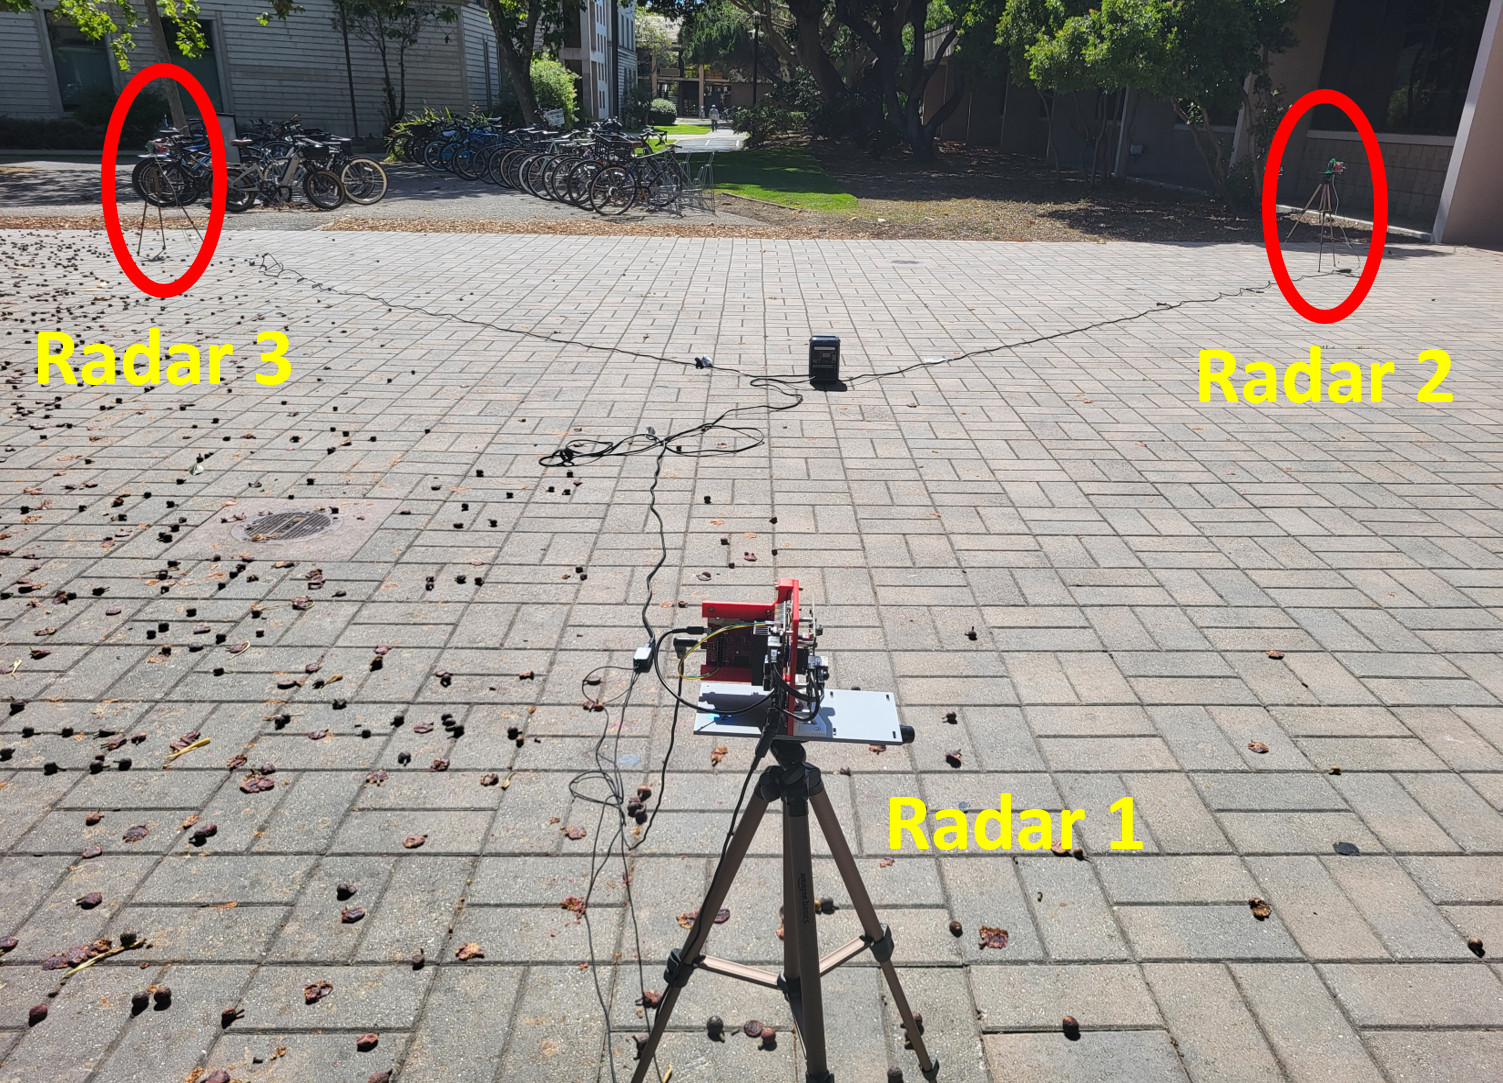
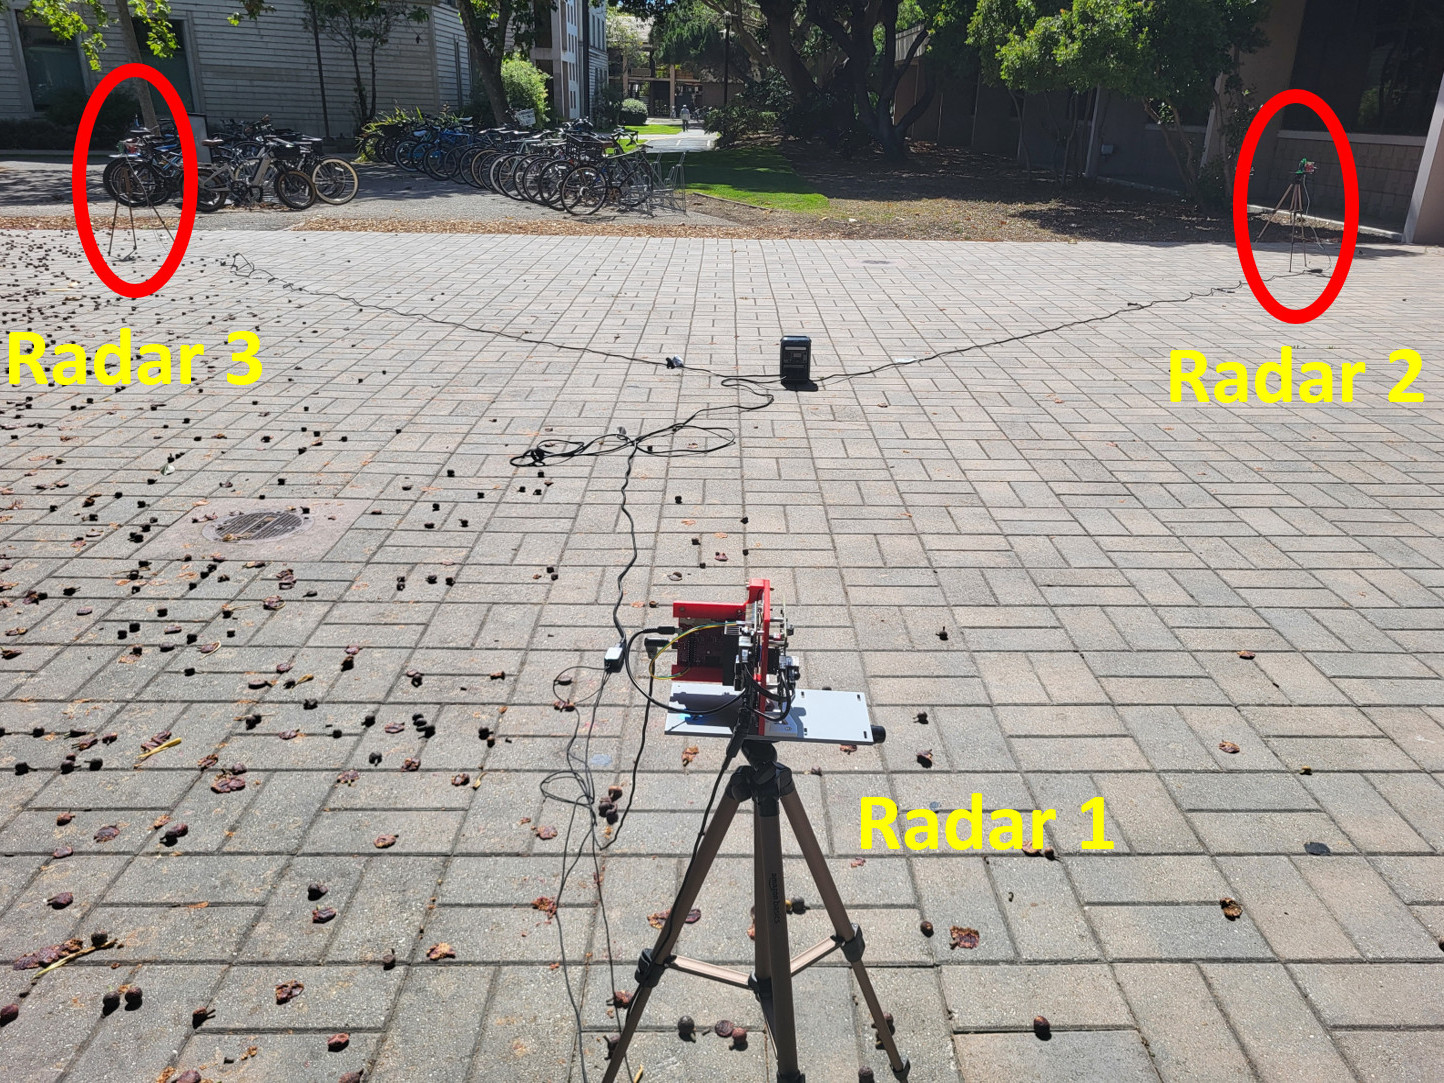
Updated README with more details

diff --git a/README.md b/README.md
@@ -8,9 +8,9 @@ live bird's-eye dashboard, and a PostgreSQL store — all as Docker containers.
 - **Radar nodes:** [NetRadar-Node](https://github.com/NetRadar-Testbed/NetRadar-Node)
 - **Full documentation:** <https://netradar-testbed.github.io>
 
-> NetRadar is built to be set up **from scratch on your own network**. Nothing in
-> this repository points at any existing deployment: `setup.sh` generates fresh
-> random passwords on your machine, and you create your own Tailscale network.
+With this repository and NetRadar-Node you can build a complete testbed of your
+own. `setup.sh` creates fresh passwords for the fusion center and every node, so
+you're up and running in a few commands.
 
 ## Architecture
 
@@ -89,18 +89,6 @@ All of these are git-ignored and readable only by you:
 Re-running `setup.sh` keeps existing passwords. `--force` regenerates all of
 them (then reconfigure every node).
 
-## Security model
-
-- **Network:** the broker (1883) and dashboard (5002) listen only on this
-  machine's Tailscale address; PostgreSQL only on `127.0.0.1`. Use a tailnet
-  that only you (and your collaborators) control.
-- **Dashboard has no login.** Anyone who can open it can start/stop nodes and
-  run calibration — that is why it is reachable only from your tailnet.
-- **Credentials:** every node has its own MQTT password; nothing has a default
-  password, and Compose refuses to start until `setup.sh` has run.
-- MQTT traffic is not TLS-encrypted by the broker; Tailscale encrypts it in
-  transit between devices.
-
 ## Services in detail
 
 ### timesync
@@ -126,7 +114,7 @@ that cluster, as `[range_m, doppler_mps, angle_rad]`. Noise points are not sent.
 
 <p align="center">
   <img src="docs/images/self-calibration-approach.png" width="620" alt="Diagram: four radars with overlapping fields of view tracking walking people; pairwise self-calibration between radars, then network averaging"><br>
-  <em>Self-calibration: pairs of radars that see the same people moving estimate their relative position and orientation (pairwise self-calibration), and the estimates are combined across the network (network averaging).</em>
+  <em>Radars that see the same people walking can work out where they are relative to each other. NetRadar does this for each pair of radars, then combines the results across the whole network.</em>
 </p>
 
 Calibration is decoupled from the nodes: nodes always stream live frames, and
@@ -143,15 +131,18 @@ the calibration service never asks them to collect special data.
 5. The result is published to `netradar/v1/group/<gid>/calibration/result` and
    stored in Postgres.
 
-<p align="center">
-  <img src="docs/images/outdoor-deployment.jpg" width="620" alt="Outdoor courtyard with three radars on tripods, labelled Radar 1 in the foreground and Radars 2 and 3 in the distance"><br>
-  <em>Outdoor three-radar deployment (at UC Santa Barbara)…</em>
-</p>
-
-<p align="center">
-  <img src="docs/images/self-calibration-demo.gif" width="620" alt="Animation: first each radar's tracks in its own coordinates, then the three radars' estimated positions and orientations with the same people aligned across radars"><br>
-  <em>…and self-calibration on it: first each radar's tracks in its own coordinates, then the estimated radar positions and orientations (Radar 1 as reference) with the same people aligned across all three radars.</em>
-</p>
+<table>
+  <tr>
+    <td width="50%" align="center">
+      <img src="docs/images/outdoor-deployment.jpg" width="100%" alt="Three radars on tripods in a courtyard, labelled Radar 1 in front and Radars 2 and 3 in the distance"><br>
+      <em>The setup: three radars in a courtyard at UC Santa Barbara.</em>
+    </td>
+    <td width="50%" align="center">
+      <img src="docs/images/self-calibration-demo.gif" width="100%" alt="Animation: each radar's tracks in its own coordinates, then the radars' estimated positions and orientations with the tracks lined up"><br>
+      <em>Each radar starts out seeing people in its own coordinates. Calibration finds where every radar is and which way it faces, and the tracks line up.</em>
+    </td>
+  </tr>
+</table>
 
 The method is described in the papers listed under *Citing NetRadar*.
 
@@ -224,10 +215,8 @@ LIMIT 20;
 
 ## Citing NetRadar
 
-If you use this software, or a testbed built with it, in published work, please
-cite the papers below **and** state that your testbed was built using the
-NetRadar open-source software (with the version). See `NOTICE` and
-<https://netradar-testbed.github.io/citing/>.
+**Using NetRadar in your research?** Please cite our papers, and mention in your
+paper that your testbed was built with NetRadar.
 
 ```bibtex
 @INPROCEEDINGS{11205142,
@@ -246,6 +235,12 @@ NetRadar open-source software (with the version). See `NOTICE` and
   pages={218-222},
   doi={10.1109/IEEECONF60004.2024.10942741}}
 ```
+
+## Contributing
+
+Contributions are welcome! Please fork the repository, make your changes on a branch
+and open a pull request against `main`. More details in
+[CONTRIBUTING.md](https://github.com/NetRadar-Testbed/.github/blob/main/CONTRIBUTING.md).
 
 ## Credits
 
